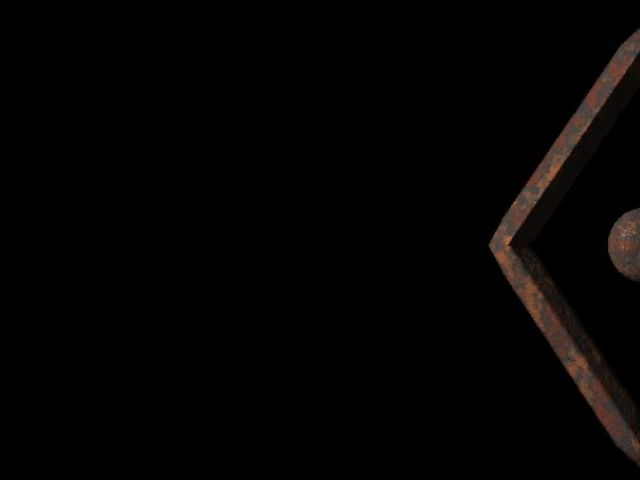
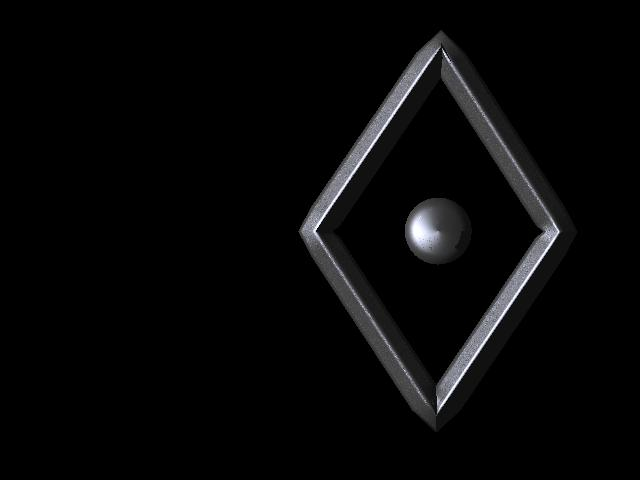
Replace title screen background with new silver diamond artwork

Changed region(s): [[0.4688, 0.0625, 1.0, 0.9688], [0.9375, 0.4375, 1.0, 0.5938]]

diff --git a/style.css b/style.css
@@ -230,7 +230,7 @@ html, body {
   -webkit-user-select: none;
 }
 #title-screen {
-  background: #000 url('assets/menu-bg.png') center/cover no-repeat;
+  background: #000 url('assets/menu-bg.png?v=2') center/cover no-repeat;
   /* stays invisible until game.js confirms every menu image (background,
      logo, button labels, cursors) has actually finished loading, then adds
      .assets-ready — avoids the background/logo/buttons popping in one at a

diff --git a/index.html b/index.html
@@ -7,7 +7,7 @@
 <link rel="icon" type="image/png" sizes="16x16" href="assets/favicon-16.png">
 <link rel="icon" type="image/png" sizes="32x32" href="assets/favicon-32.png">
 <link rel="icon" type="image/png" sizes="64x64" href="assets/favicon-64.png">
-<link rel="stylesheet" href="style.css?v=37">
+<link rel="stylesheet" href="style.css?v=38">
 </head>
 <body>
 <div id="game">
